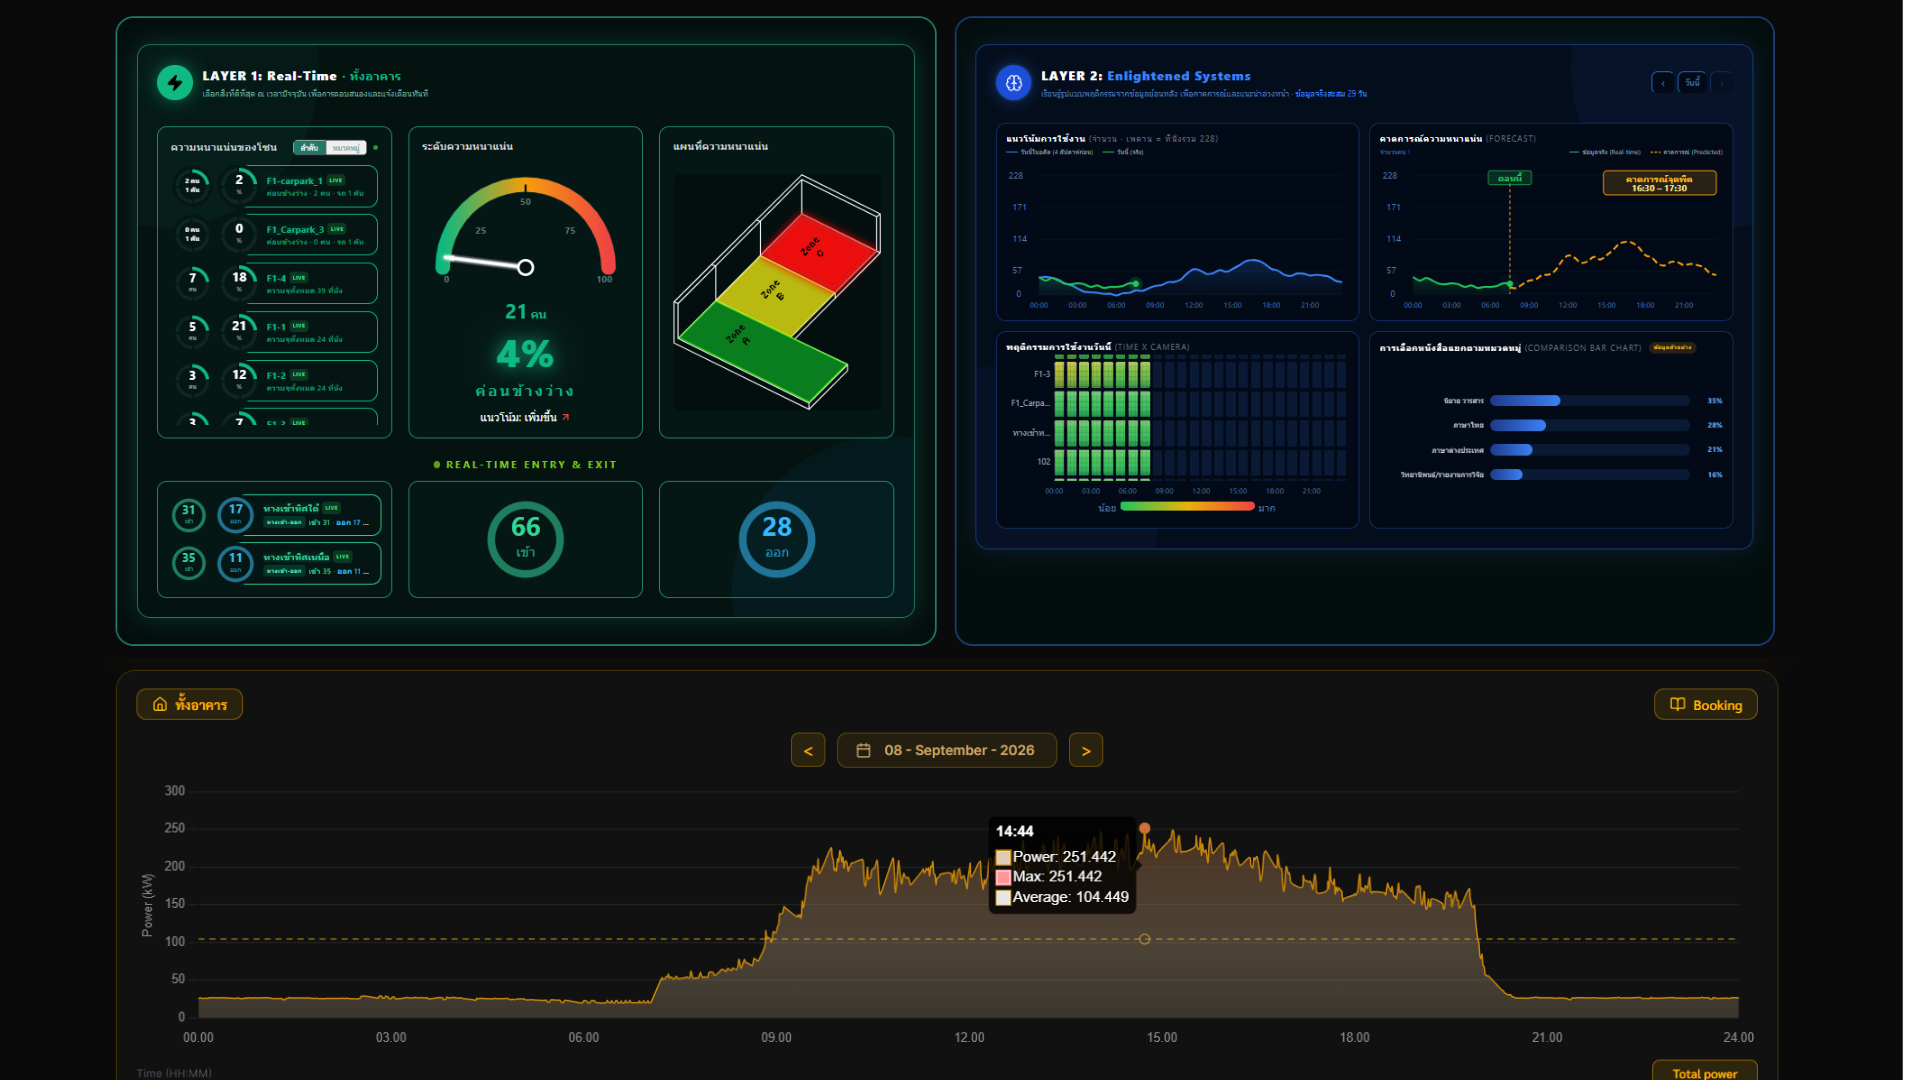
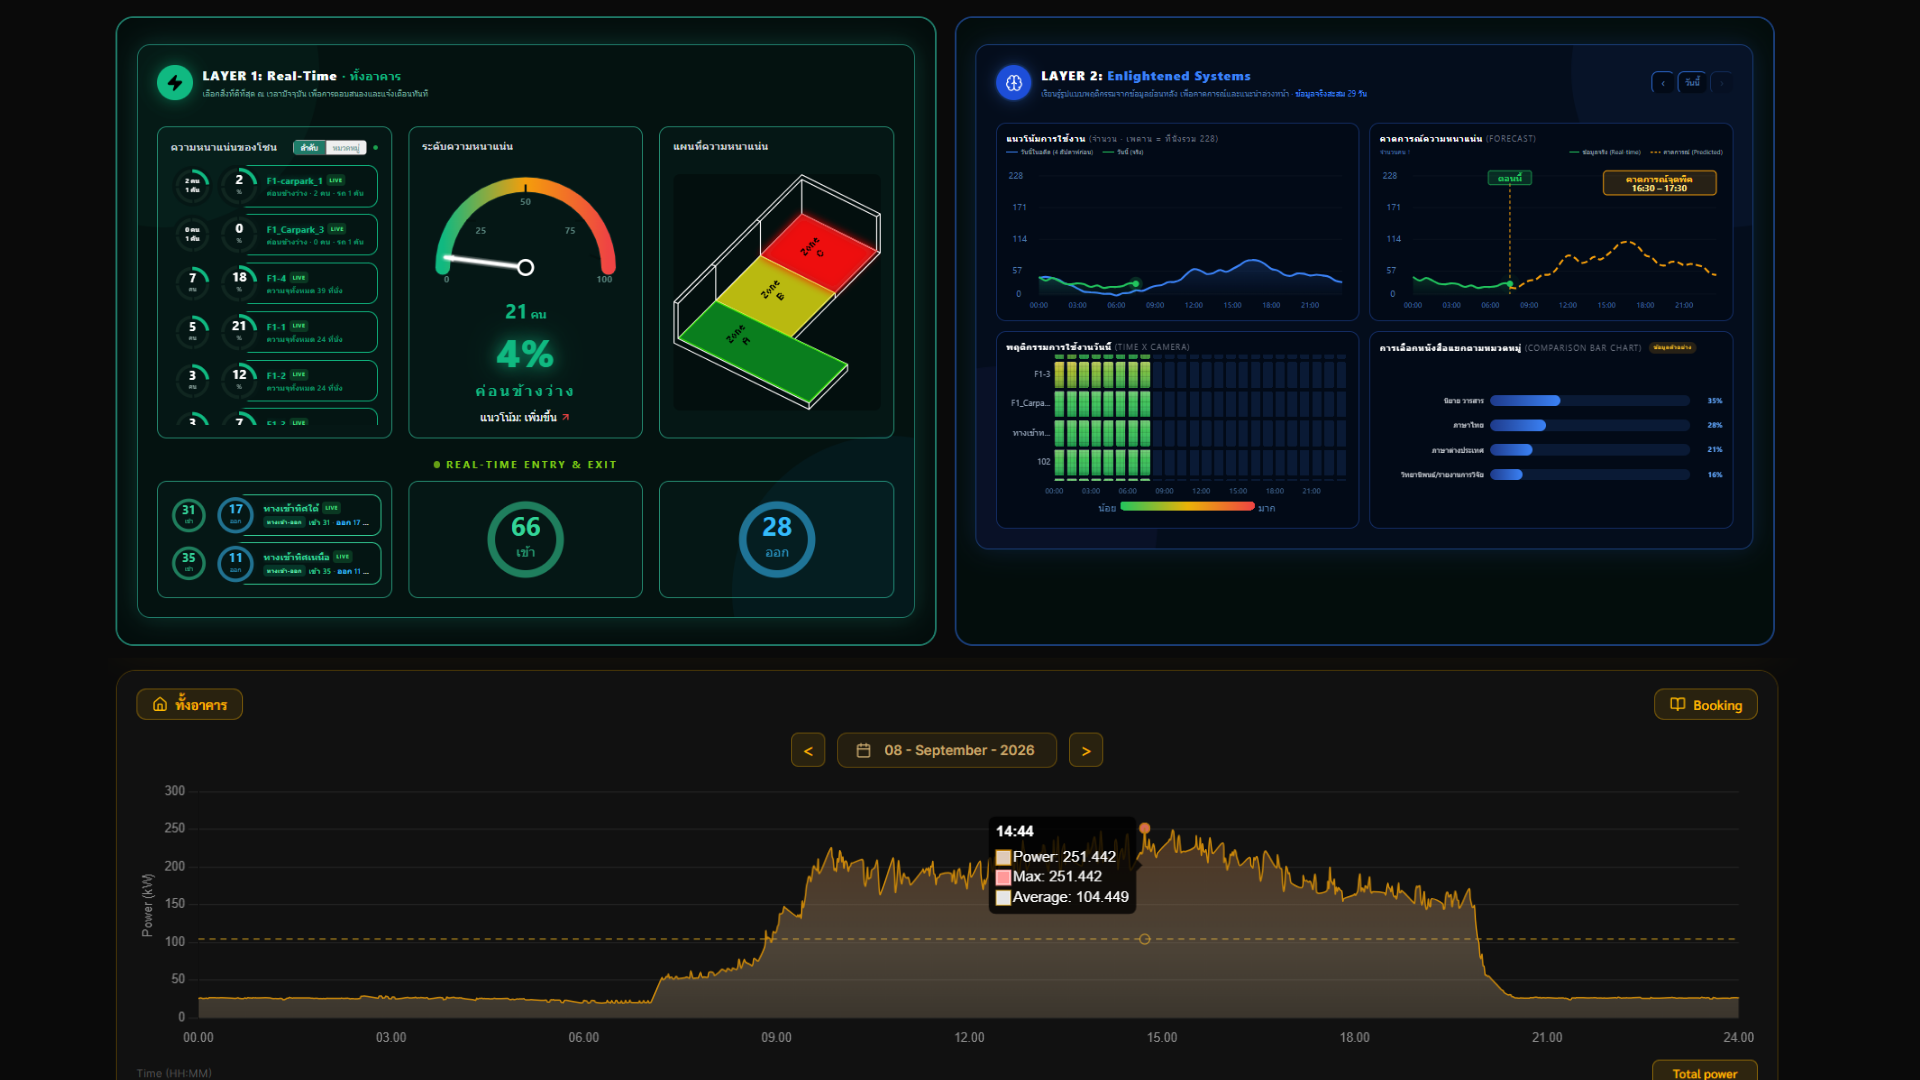
แกรูป4

Changed region(s): [[0.9688, 0.0, 1.0, 1.0]]

diff --git a/pages/renewablesort/MomayforSale.vue b/pages/renewablesort/MomayforSale.vue
@@ -4149,7 +4149,7 @@ section {
   display: block;
   width: 100%;
   height: 100%;
-  object-fit: contain ;
+  object-fit: cover;
   object-position: center;
 }
 .phone__screen--library > :not(.mockup-image) { display: none; }
